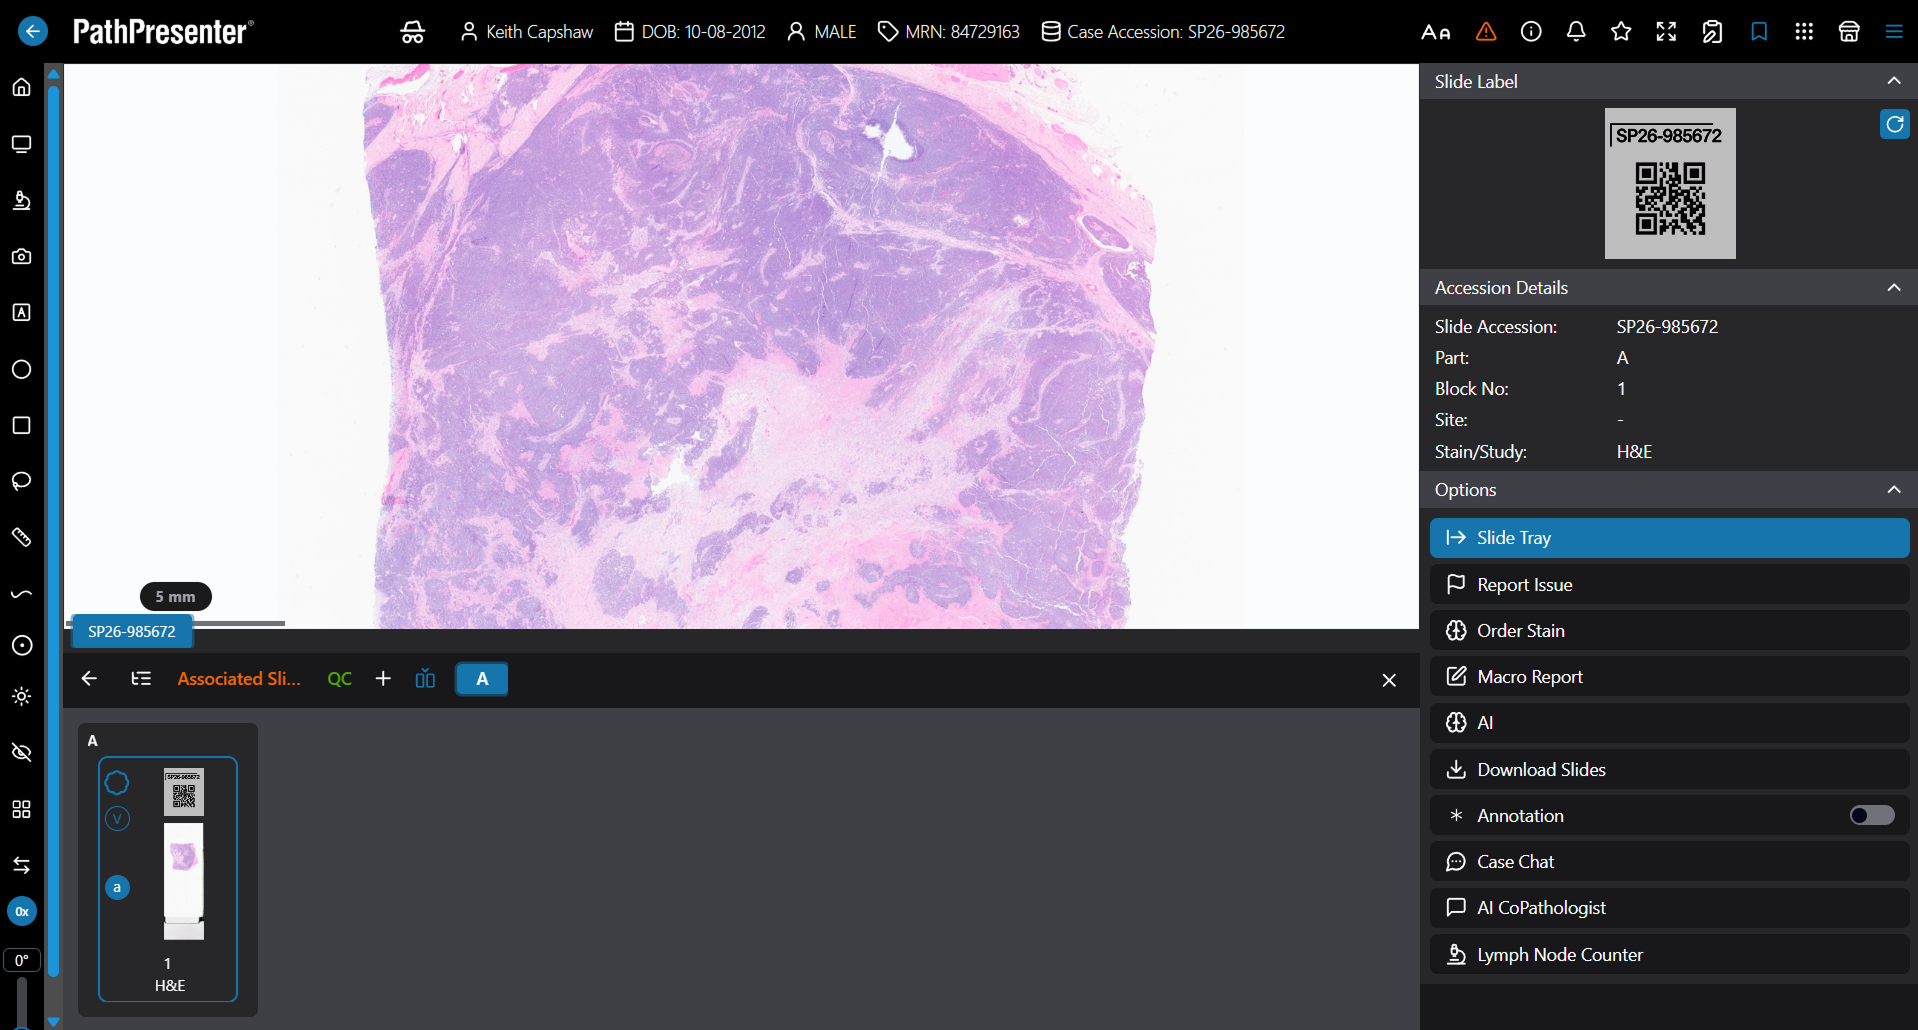
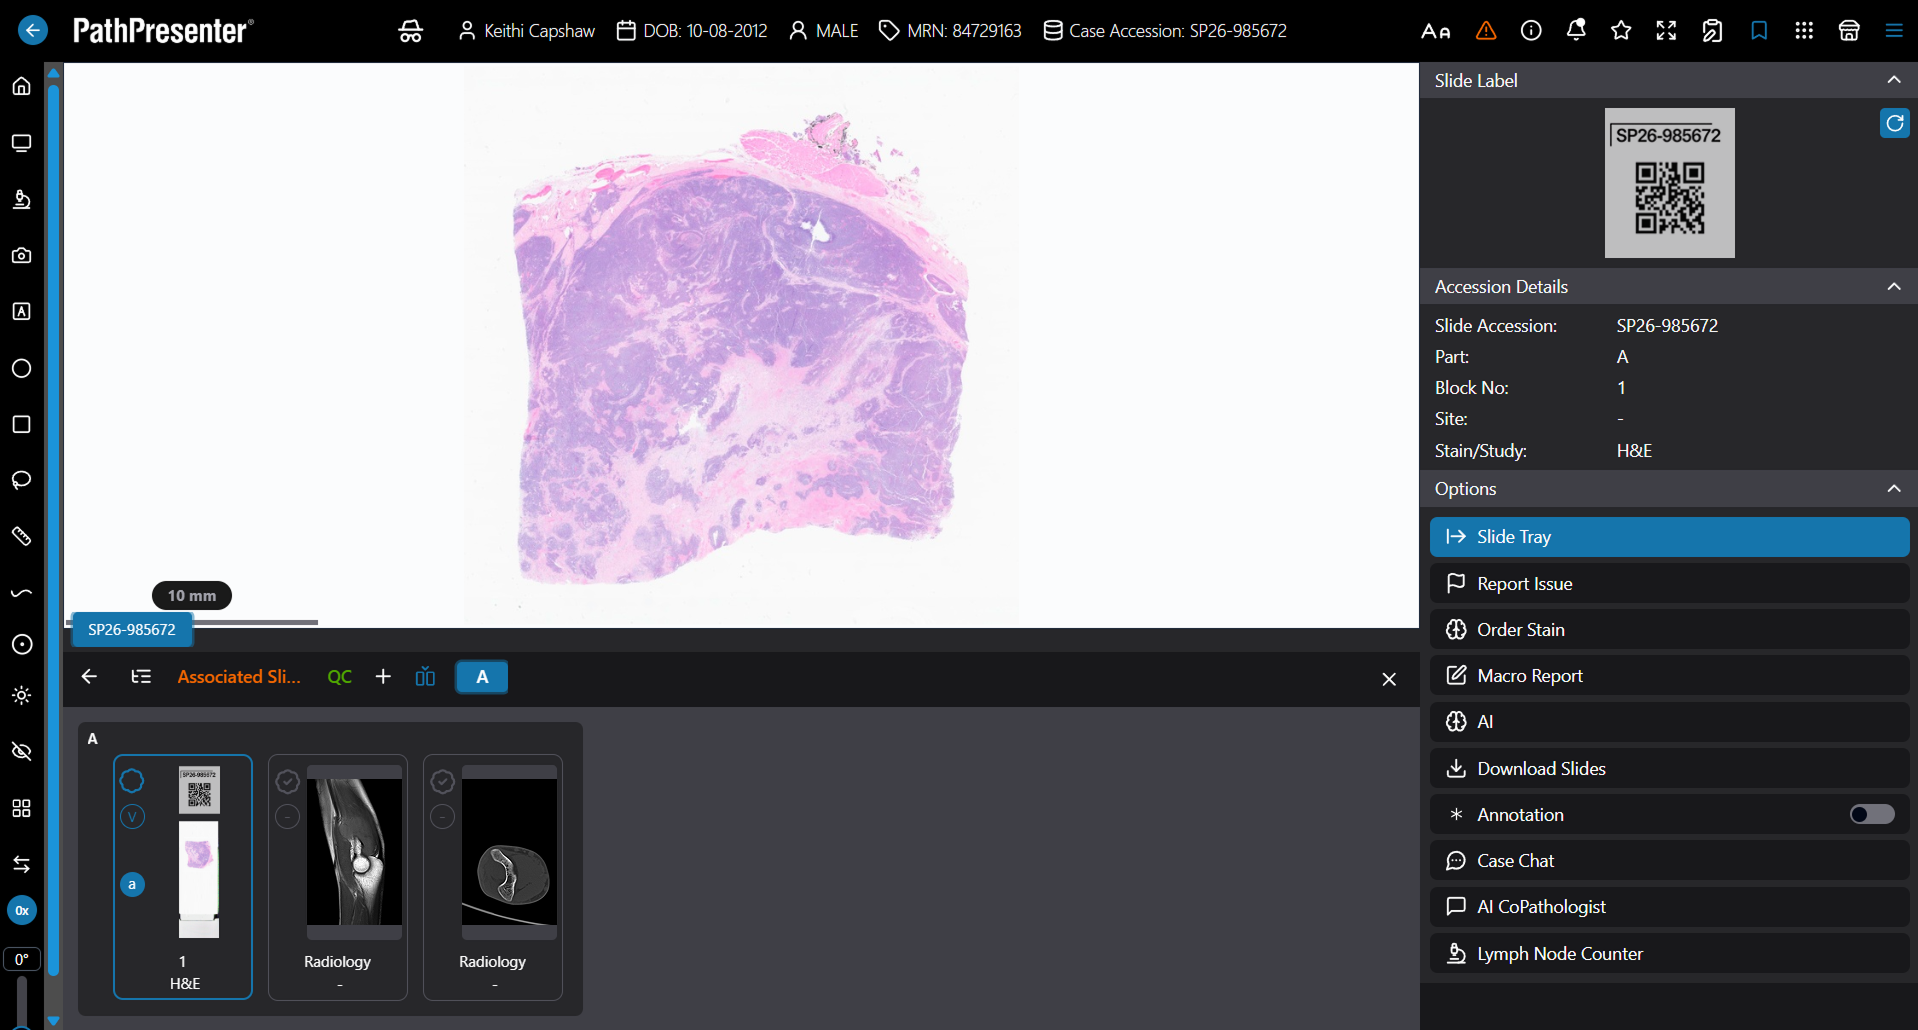
all slide changes pushed

diff --git a/assets/content.js b/assets/content.js
@@ -7,7 +7,7 @@
 //   chrome the title bar of the screen frame (defaults to the demo's)
 //   tag    a flag in the title bar, e.g. "Research concept · not validated"
 //   screen what the live demo shows (the placeholder text when there is no media)
-//   images screenshots, clicked through in order; then the iframe, if there is one
+//   images screenshots, clicked through in order (each can set a background); then the iframe, if there is one
 //   iframe a live PathPresenter link (iframeAction labels the click that opens it)
 //   previewImage  a still shown before the iframe loads
 //   img    a single screenshot
@@ -30,8 +30,8 @@ window.CONTENT = {
           quote: 'Before I start signing out, can I see which cases need my attention first?',
           screen: 'The worklist, with AI',
           images: [
-            { src: 'assets/wsi/clinical-dashboard.png', alt: 'The clinical dashboard' },
-            { src: 'assets/wsi/in_worklist.png', alt: 'The case in the worklist' }
+            { src: 'assets/wsi/clinical-dashboard.png', alt: 'The clinical dashboard', background: '#fff' },
+            { src: 'assets/wsi/in_worklist.png', alt: 'The case in the worklist', background: '#fff' }
           ],
           iframe: 'https://pathpresenter.net/public/display?token=b4e0dff7',
           iframeAction: 'Open the case',
@@ -44,7 +44,9 @@ window.CONTENT = {
             { src: 'assets/wsi/clinical-context.png', alt: 'Clinical context in the case' },
             { src: 'assets/wsi/clinical-context-info.png', alt: 'Clinical history and patient information' },
             { src: 'assets/wsi/slide-tray-select.png', alt: 'Select the slide tray' },
-            { src: 'assets/wsi/slidetray-open.png', alt: 'The slide tray, open' },
+             { src: 'assets/wsi/radiology.png', alt: 'Select the slide tray' },
+             { src: 'assets/wsi/radiology2.png', alt: 'Select the slide tray' },
+            { src: 'assets/wsi/slidetrayexpand.png', alt: 'The slide tray, open' },
             { src: 'assets/wsi/gross-dialog-open.png', alt: 'Add a gross image' },
             { src: 'assets/wsi/add-gross-img.png', alt: 'Choose the gross image' },
             { src: 'assets/wsi/gross-img-check.png', alt: 'Gross image added to the case' },
@@ -137,7 +139,7 @@ window.CONTENT = {
           quote: "It's already in my LIS worklist. No separate login, no separate portal.", chrome: 'Mail · New consult from The Ohio State University',
           screen: 'The email notification. Click the view link',
           images: [
-            { src: 'assets/wsi/consult/email-notfication.png', alt: 'Email notification for a new consult' },
+            { src: 'assets/wsi/consult/email-notfication.png', alt: 'Email notification for a new consult', background: '#fff' },
           ],
           notes: 'Archana, beat 1 (0:20 to 0:55). "The consult is in my worklist, next to my own cases. No courier, no glass in the mail, no separate portal to log into. Swati\'s lab scans on a different scanner than ours, and I shouldn\'t have to care. It opens like any of my slides, and it\'s already accessioned in our LIS."'
         },
@@ -181,7 +183,8 @@ window.CONTENT = {
             { src: 'assets/wsi/consult/order-stain-dropdown.png', alt: 'Choose a stain' },
             { src: 'assets/wsi/consult/open-dropdown.png', alt: 'The stain list' },
             { src: 'assets/wsi/consult/Order-stain-more.png', alt: 'Additional stain selected' },
-            { src: 'assets/wsi/consult/more-order-stain.png', alt: 'Stain ordered' },
+            { src: 'assets/wsi/consult/duxStain.png', alt: 'DUX4 stain ordered', background: '#fff' },
+
           ],
           notes: 'Archana, beat 4 (2:05 to 2:40). Request DUX4. "These will tell me which way this goes. They\'re cut, scanned, and they land in this case with everything else, whichever lab cut them and whichever scanner they came off. I\'m notified when they\'re ready." Don\'t name the diagnosis yet; it is revealed at the end.'
         },
@@ -189,10 +192,11 @@ window.CONTENT = {
           quote: 'Can I mark the tumor, assess adequacy, and request the molecular testing needed to resolve the diagnosis?', chrome: "Beaker · Cincinnati Children's Hospital · PV26-001",
           screen: 'EWSR1::FLI1 FISH ordered',
           images: [
-            { src: 'assets/wsi/consult/more-order-stain.png', alt: 'Order options' },
-            { src: 'assets/wsi/consult/order-stain-dropdown.png', alt: 'The order list' },
-            { src: 'assets/wsi/consult/molicular-dropdown.png', alt: 'Choose the molecular test' },
-            { src: 'assets/wsi/consult/molicular.png', alt: 'Molecular test ordered' },
+            { src: 'assets/wsi/consult/duxStain.png', alt: 'DUX4 stain ordered', background: '#fff' },
+            { src: 'assets/wsi/consult/ordermol2.png', alt: 'The order list' },
+            { src: 'assets/wsi/consult/ordermol3.png', alt: 'Choose the molecular test' },
+            { src: 'assets/wsi/consult/ordermol4.png', alt: 'Molecular test ordered' },
+             { src: 'assets/wsi/consult/ordermol5.png', alt: 'Molecular test ordered result' },
           ],
           notes: 'Archana. Mark the tumor, assess adequacy, and order the molecular test from the case: EWSR1::FLI1 FISH.'
         },
@@ -200,7 +204,7 @@ window.CONTENT = {
           quote: 'My completed consultation goes back to the referring team, where they need it.', chrome: "Beaker · Cincinnati Children's Hospital · PV26-001",
           screen: 'The report as uploaded. From the email, open the expanded PDF report',
           images: [
-            { src: 'assets/wsi/consult/final-report-mail.png', alt: 'The completed report by email' },
+            { src: 'assets/wsi/consult/final-report-mail.png', alt: 'The completed report by email', background: '#fff' },
             { src: 'assets/wsi/consult/again-move-report.png', alt: 'The report back in the referring case' },
           ],
           iframe: 'assets/wsi/consult/final-report.pdf',
@@ -265,8 +269,8 @@ window.CONTENT = {
           rail: 2, quote: 'Ensuring the diversity of data.', chrome: 'AI Data Commons (ADC) Alliance · What it is',
           screen: 'Datasets in the ADC Alliance, each with an access request',
           images: [
-            { src: `${WSI}/research/data-from-35-grpahics.png`, alt: 'Datasets from contributing institutions' },
-            { src: `${WSI}/research/data-from-35-grpahics-search.png`, alt: 'Searching across the contributed datasets' },
+            { src: `${WSI}/research/data-from-35-grpahics.png`, alt: 'Datasets from contributing institutions', background: '#fff' },
+            { src: `${WSI}/research/data-from-35-grpahics-search.png`, alt: 'Searching across the contributed datasets', background: '#fff' },
           ],
           notes: 'Matt. The datasets contributing sites have shared into the Alliance, each with its own metadata and its own access request.'
         },
@@ -274,10 +278,10 @@ window.CONTENT = {
           rail: 3, quote: 'Free text becomes fields I can search, and I can ask for more.',
           screen: 'Construct the query age < 18 and CIC-rearranged sarcoma, find a few slides per site, then the request-access workflow',
           images: [
-            { src: `${WSI}/research/searchable-list.png`, alt: 'Searchable list of available cases' },
+            { src: `${WSI}/research/searchable-list.png`, alt: 'Searchable list of available cases', background: '#fff' },
             { src: `${WSI}/research/request-access.png`, alt: 'Request access to a dataset' },
             { src: `${WSI}/research/request-metadata.png`, alt: 'Request another metadata field' },
-            { src: `${WSI}/research/searchable-list.png`, alt: 'The updated searchable list' },
+            { src: `${WSI}/research/searchable-list.png`, alt: 'The updated searchable list', background: '#fff' },
             { src: `${WSI}/research/approved-access.png`, alt: 'Access approved' },
             { src: `${WSI}/research/request-for-research.png`, alt: 'Research request' },
           ],
@@ -293,17 +297,17 @@ window.CONTENT = {
           rail: 5, quote: 'Every round cell sarcoma with a CD99 result, across 35 sites.',
           screen: 'Build a study: click through each screen',
           images: [
-            { src: `${WSI}/research/buid-cohort.png`, alt: 'Build a cohort' },
-            { src: `${WSI}/research/project-details.png`, alt: 'Project details' },
-            { src: `${WSI}/research/document.png`, alt: 'Project documents' },
-            { src: `${WSI}/research/roi.png`, alt: 'Regions of interest' },
-            { src: `${WSI}/research/label.png`, alt: 'Labels' },
-            { src: `${WSI}/research/case-report.png`, alt: 'Case reports' },
-            { src: `${WSI}/research/preview-ecrf.png`, alt: 'Preview the electronic case report form' },
-            { src: `${WSI}/research/dataset.png`, alt: 'The cohort dataset' },
-            { src: `${WSI}/research/assign-dataset.png`, alt: 'Assign the dataset' },
-            { src: `${WSI}/research/assign-data-complete.png`, alt: 'Assign the dataset' },
-            { src: `${WSI}/research/project-launch.png`, alt: 'Launch the project' },
+            { src: `${WSI}/research/buid-cohort.png`, alt: 'Build a cohort', background: '#fff' },
+            { src: `${WSI}/research/project-details.png`, alt: 'Project details', background: '#fff' },
+            { src: `${WSI}/research/document.png`, alt: 'Project documents', background: '#fff' },
+            { src: `${WSI}/research/roi.png`, alt: 'Regions of interest', background: '#fff' },
+            { src: `${WSI}/research/label.png`, alt: 'Labels', background: '#fff' },
+            { src: `${WSI}/research/case-report.png`, alt: 'Case reports', background: '#fff' },
+            { src: `${WSI}/research/preview-ecrf.png`, alt: 'Preview the electronic case report form', background: '#fff' },
+            { src: `${WSI}/research/dataset.png`, alt: 'The cohort dataset', background: '#fff' },
+            { src: `${WSI}/research/assign-dataset.png`, alt: 'Assign the dataset', background: '#fff' },
+            { src: `${WSI}/research/assign-data-complete.png`, alt: 'Assign the dataset', background: '#fff' },
+            { src: `${WSI}/research/project-launch.png`, alt: 'Launch the project', background: '#fff' },
           ],
           notes: 'Matt, beat 6 (4:05 to 4:45). "Now I can ask a real question: every round cell sarcoma with a CD99 result, across all 35 sites. Seconds, not months of chart review. And there\'s our case, the one Swati sent and Archana signed out, alongside the look-alikes the image search found." If the travelling case cannot be in the Alliance data, say "cases like ours".'
         },

diff --git a/assets/app.js b/assets/app.js
@@ -955,7 +955,13 @@
       if (f.iframe) body.replaceChildren(makeIframe(f.iframe, s.screen));
       else {
         if (f.html) btn.innerHTML = `<div class="v">${f.html}</div>`;
-        else { const im = new Image(); im.src = f.img.src; im.alt = f.img.alt || ''; btn.replaceChildren(im); }
+        else {
+          const im = new Image();
+          im.src = f.img.src;
+          im.alt = f.img.alt || '';
+          im.style.backgroundColor = f.img.background || '';
+          btn.replaceChildren(im);
+        }
         btn.setAttribute('aria-label', k < frames.length - 1 ? `Show screen ${k + 2} of ${frames.length}` : 'Continue');
         body.replaceChildren(btn);
       }
